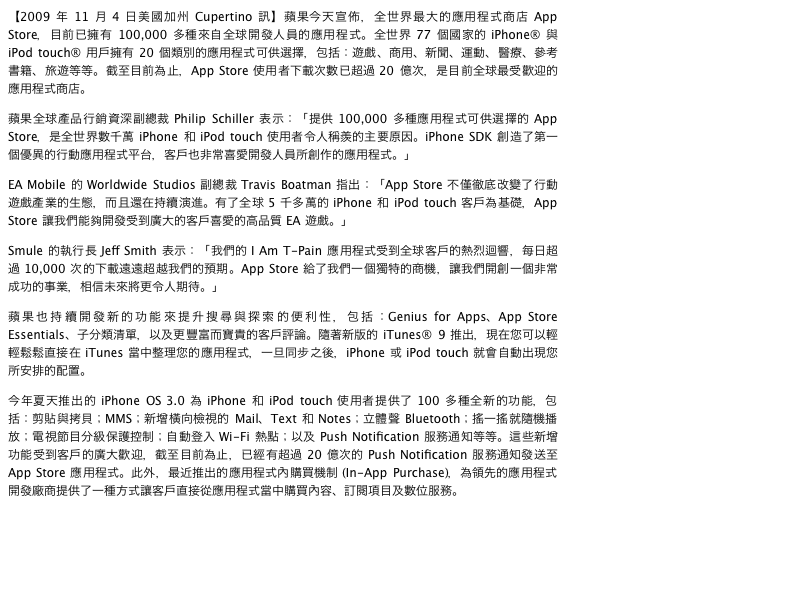
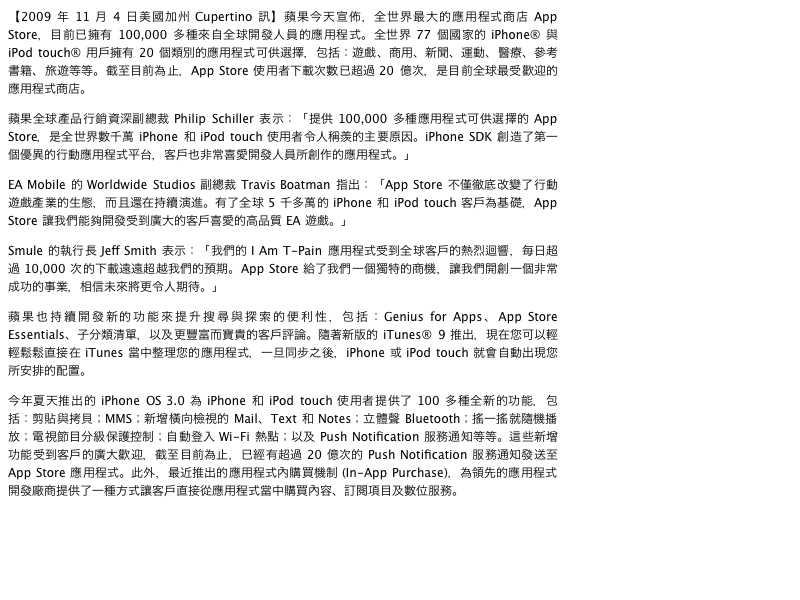
Inter-ideograph justification should apply to hiragana and katakana as well https://bugs.webkit.org/show_bug.cgi?id=53464
Reviewed by Adele Peterson.

Source/WebCore:

Changed the test for expansion opportunities from isCJKIdeograph() to isCJKIdeographOrSymbol().

* platform/graphics/Font.cpp:
(WebCore::Font::expansionOpportunityCount):
* platform/graphics/WidthIterator.cpp:
(WebCore::WidthIterator::advance):
* platform/graphics/mac/ComplexTextController.cpp:
(WebCore::ComplexTextController::adjustGlyphsAndAdvances):

LayoutTests:

* platform/mac/fast/text/justify-ideograph-complex-expected.checksum:
* platform/mac/fast/text/justify-ideograph-complex-expected.png:
* platform/mac/fast/text/justify-ideograph-simple-expected.checksum:
* platform/mac/fast/text/justify-ideograph-simple-expected.png:
* platform/mac/fast/text/justify-ideograph-vertical-expected.checksum:
* platform/mac/fast/text/justify-ideograph-vertical-expected.png:

Identifier: 67321@main
git-svn-id: https://svn.webkit.org/repository/webkit/trunk@77173 268f45cc-cd09-0410-ab3c-d52691b4dbfc

diff --git a/Source/WebCore/platform/graphics/Font.cpp b/Source/WebCore/platform/graphics/Font.cpp
@@ -474,7 +474,7 @@ unsigned Font::expansionOpportunityCount(const UChar* characters, size_t length,
                 character = U16_GET_SUPPLEMENTARY(character, characters[i + 1]);
                 i++;
             }
-            if (expandAroundIdeographs && isCJKIdeograph(character)) {
+            if (expandAroundIdeographs && isCJKIdeographOrSymbol(character)) {
                 if (!isAfterExpansion)
                     count++;
                 count++;
@@ -495,7 +495,7 @@ unsigned Font::expansionOpportunityCount(const UChar* characters, size_t length,
                 character = U16_GET_SUPPLEMENTARY(characters[i - 2], character);
                 i--;
             }
-            if (expandAroundIdeographs && isCJKIdeograph(character)) {
+            if (expandAroundIdeographs && isCJKIdeographOrSymbol(character)) {
                 if (!isAfterExpansion)
                     count++;
                 count++;

diff --git a/Source/WebCore/platform/graphics/WidthIterator.cpp b/Source/WebCore/platform/graphics/WidthIterator.cpp
@@ -175,7 +175,7 @@ void WidthIterator::advance(int offset, GlyphBuffer* glyphBuffer)
 
             static bool expandAroundIdeographs = Font::canExpandAroundIdeographsInComplexText();
             bool treatAsSpace = Font::treatAsSpace(c);
-            if (treatAsSpace || (expandAroundIdeographs && Font::isCJKIdeograph(c))) {
+            if (treatAsSpace || (expandAroundIdeographs && Font::isCJKIdeographOrSymbol(c))) {
                 // Distribute the run's total expansion evenly over all expansion opportunities in the run.
                 if (m_expansion && (m_run.allowsTrailingExpansion() || (m_run.ltr() && currentCharacter + clusterLength < static_cast<size_t>(m_run.length()))
                     || (m_run.rtl() && currentCharacter))) {

diff --git a/Source/WebCore/platform/graphics/mac/ComplexTextController.cpp b/Source/WebCore/platform/graphics/mac/ComplexTextController.cpp
@@ -489,7 +489,7 @@ void ComplexTextController::adjustGlyphsAndAdvances()
                     advance.width += m_font.letterSpacing();
 
                 // Handle justification and word-spacing.
-                if (treatAsSpace || Font::isCJKIdeograph(ch)) {
+                if (treatAsSpace || Font::isCJKIdeographOrSymbol(ch)) {
                     // Distribute the run's total expansion evenly over all expansion opportunities in the run.
                     if (m_expansion && (!lastGlyph || m_run.allowsTrailingExpansion())) {
                         float previousExpansion = m_expansion;
